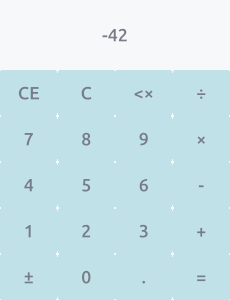
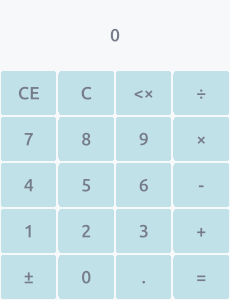
nicer screenshot

Changed region(s): [[0.0, 0.21, 1.0, 1.0], [0.4565, 0.09, 0.5478, 0.15]]

diff --git a/examples/calculator/main.rs b/examples/calculator/main.rs
@@ -4,8 +4,7 @@
 use esus::{
 	instance,
 	native_widgets::{Button, Flex, Label, LabelText},
-	widget::WidgetExt,
-	Color,
+	widget::{Widget, WidgetExt},
 };
 
 // Some useful data types
@@ -123,8 +122,8 @@ impl esus::State for State {
 	type Message = Message;
 }
 
-fn button(txt: &str) -> Button<State> {
-	Button::new(Label::new(txt))
+fn button(txt: &str, msg: Message) -> impl Widget<S = State> {
+	Button::new(Label::new(txt)).on_click(msg).with_padding(1.0)
 }
 
 fn main() {
@@ -154,42 +153,42 @@ fn main() {
 				)
 				.with_flex_child(
 					Flex::row()
-						.with_flex_child(button("CE").on_click(Message::ClearEntry), 1.0)
-						.with_flex_child(button("C").on_click(Message::Clear), 1.0)
-						.with_flex_child(button("<×").on_click(Message::Backspace), 1.0)
-						.with_flex_child(button("÷").on_click(Message::Op(Operation::Div)), 1.0),
+						.with_flex_child(button("CE", Message::ClearEntry), 1.0)
+						.with_flex_child(button("C", Message::Clear), 1.0)
+						.with_flex_child(button("<×", Message::Backspace), 1.0)
+						.with_flex_child(button("÷", Message::Op(Operation::Div)), 1.0),
 					1.0,
 				)
 				.with_flex_child(
 					Flex::row()
-						.with_flex_child(button("7").on_click(Message::Digit(7)), 1.0)
-						.with_flex_child(button("8").on_click(Message::Digit(8)), 1.0)
-						.with_flex_child(button("9").on_click(Message::Digit(9)), 1.0)
-						.with_flex_child(button("×").on_click(Message::Op(Operation::Mul)), 1.0),
+						.with_flex_child(button("7", Message::Digit(7)), 1.0)
+						.with_flex_child(button("8", Message::Digit(8)), 1.0)
+						.with_flex_child(button("9", Message::Digit(9)), 1.0)
+						.with_flex_child(button("×", Message::Op(Operation::Mul)), 1.0),
 					1.0,
 				)
 				.with_flex_child(
 					Flex::row()
-						.with_flex_child(button("4").on_click(Message::Digit(4)), 1.0)
-						.with_flex_child(button("5").on_click(Message::Digit(5)), 1.0)
-						.with_flex_child(button("6").on_click(Message::Digit(6)), 1.0)
-						.with_flex_child(button("-").on_click(Message::Op(Operation::Sub)), 1.0),
+						.with_flex_child(button("4", Message::Digit(4)), 1.0)
+						.with_flex_child(button("5", Message::Digit(5)), 1.0)
+						.with_flex_child(button("6", Message::Digit(6)), 1.0)
+						.with_flex_child(button("-", Message::Op(Operation::Sub)), 1.0),
 					1.0,
 				)
 				.with_flex_child(
 					Flex::row()
-						.with_flex_child(button("1").on_click(Message::Digit(1)), 1.0)
-						.with_flex_child(button("2").on_click(Message::Digit(2)), 1.0)
-						.with_flex_child(button("3").on_click(Message::Digit(3)), 1.0)
-						.with_flex_child(button("+").on_click(Message::Op(Operation::Add)), 1.0),
+						.with_flex_child(button("1", Message::Digit(1)), 1.0)
+						.with_flex_child(button("2", Message::Digit(2)), 1.0)
+						.with_flex_child(button("3", Message::Digit(3)), 1.0)
+						.with_flex_child(button("+", Message::Op(Operation::Add)), 1.0),
 					1.0,
 				)
 				.with_flex_child(
 					Flex::row()
-						.with_flex_child(button("±").on_click(Message::SwapSign), 1.0)
-						.with_flex_child(button("0").on_click(Message::Digit(0)), 1.0)
-						.with_flex_child(button(".").on_click(Message::DecimalMark), 1.0)
-						.with_flex_child(button("=").on_click(Message::Equal), 1.0),
+						.with_flex_child(button("±", Message::SwapSign), 1.0)
+						.with_flex_child(button("0", Message::Digit(0)), 1.0)
+						.with_flex_child(button(".", Message::DecimalMark), 1.0)
+						.with_flex_child(button("=", Message::Equal), 1.0),
 					1.0,
 				)
 		})

diff --git a/src/native_widgets/sized_box.rs b/src/native_widgets/sized_box.rs
@@ -1,3 +1,5 @@
+use lyon::geom::euclid::SideOffsets2D;
+
 use crate::{
 	state::State,
 	widget::{self, EventCtx, LayoutCtx, PaintCtx, SizeCtx, Widget},
@@ -9,6 +11,7 @@ pub struct SizedBox<S: State> {
 	child: Option<widget::Pod<S>>,
 	width: Option<f32>,
 	height: Option<f32>,
+	padding: Option<f32>,
 }
 
 impl<S: State> SizedBox<S> {
@@ -17,6 +20,7 @@ impl<S: State> SizedBox<S> {
 			child: Some(widget::Pod::new(child)),
 			width: None,
 			height: None,
+			padding: None,
 		};
 		id
 	}
@@ -30,6 +34,11 @@ impl<S: State> SizedBox<S> {
 		self.height = Some(height);
 		self
 	}
+
+	pub fn with_padding(mut self, padding: f32) -> Self {
+		self.padding = Some(padding);
+		self
+	}
 }
 
 impl<S: State> Widget for SizedBox<S> {
@@ -37,6 +46,9 @@ impl<S: State> Widget for SizedBox<S> {
 
 	fn size(&mut self, ctx: &mut SizeCtx<S>) -> Size {
 		let mut size = if let Some(child) = &mut self.child {
+			if let Some(padding) = self.padding {
+				ctx.sc.max -= Size::new(padding * 2.0, padding * 2.0);
+			}
 			child.size(ctx)
 		} else {
 			ctx.sc.max
@@ -52,6 +64,12 @@ impl<S: State> Widget for SizedBox<S> {
 
 	fn layout(&mut self, ctx: &mut LayoutCtx<S>) -> Layout {
 		if let Some(child) = &mut self.child {
+			if let Some(padding) = self.padding {
+				ctx.suggestion.rect = ctx
+					.suggestion
+					.rect
+					.inner_rect(SideOffsets2D::new_all_same(padding));
+			}
 			child.layout(ctx);
 		}
 		ctx.suggestion

diff --git a/src/widget/ext.rs b/src/widget/ext.rs
@@ -9,6 +9,10 @@ pub trait WidgetExt<S: State>: Widget<S = S> + Sized + 'static {
 	fn fix_height(self, height: f32) -> SizedBox<S> {
 		SizedBox::new(self).fix_height(height)
 	}
+
+	fn with_padding(self, padding: f32) -> SizedBox<S> {
+		SizedBox::new(self).with_padding(padding)
+	}
 }
 
 impl<S: State, W: Widget<S = S> + 'static> WidgetExt<S> for W {}

diff --git a/src/native_widgets/button.rs b/src/native_widgets/button.rs
@@ -1,10 +1,6 @@
 use lyon::path::{builder::BorderRadii, traits::PathBuilder, Winding};
 
-use crate::{
-	state::State,
-	widget::{layout, prelude::*},
-	Color,
-};
+use crate::{state::State, widget::prelude::*, Color};
 
 #[derive(Debug)]
 pub struct Button<S: State> {
